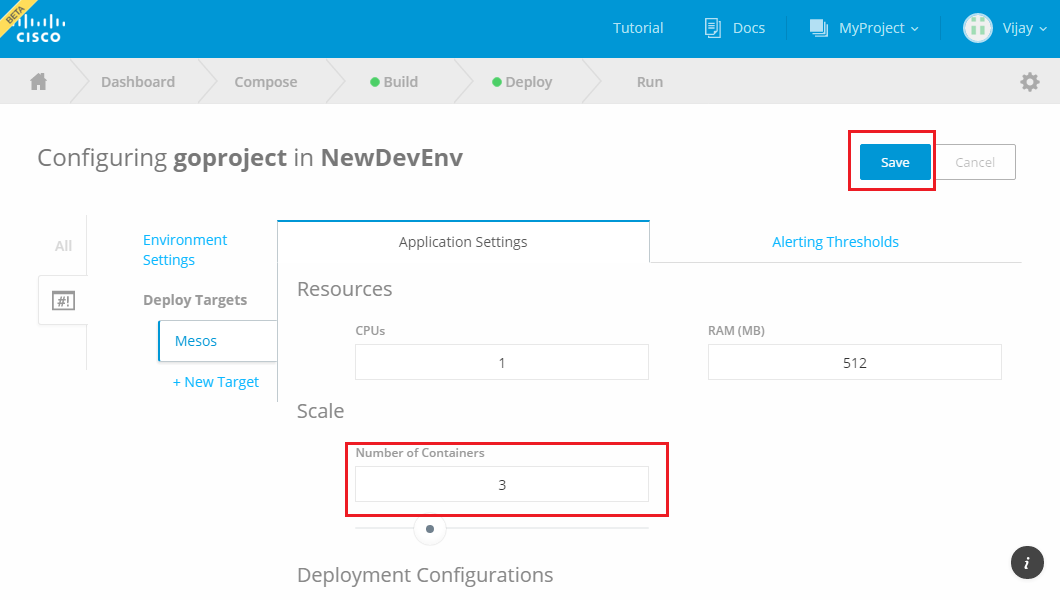
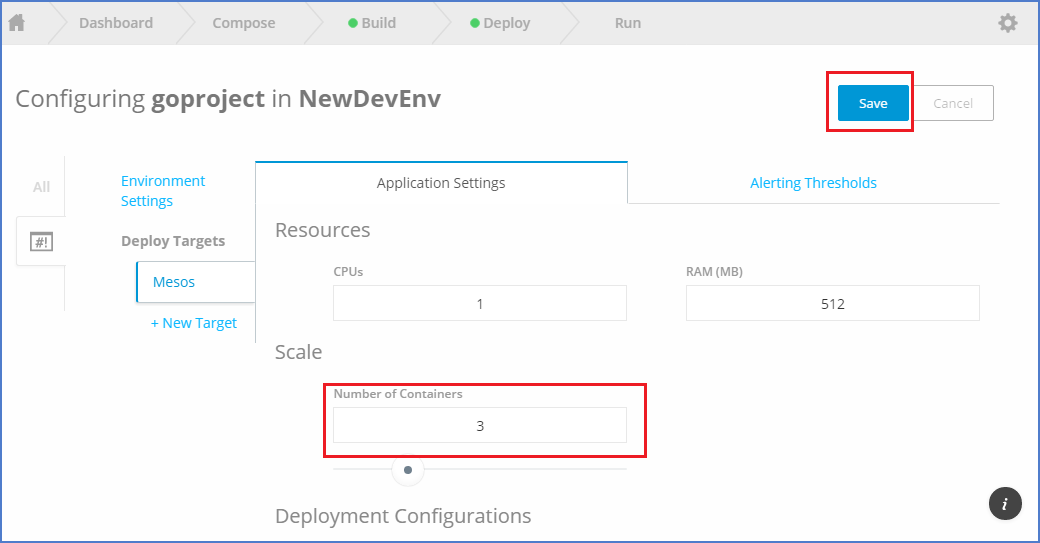
Add borders to graphics

diff --git a/labs/shipped-cicd/3.md b/labs/shipped-cicd/3.md
@@ -1,24 +1,48 @@
-# Shipped - CICD
 
-## Environment Configurations
+## Configure Environment Settings
 
-1. Click on **Deploy** tab. and click on Settings
+1. Click the **Deploy** tab.  
 
-![](posts/files/shipped-cicd/assets/13.PNG)
+    ![](posts/files/shipped-cicd/assets/Environment-settings.png)
 
-2. Change containers to 3 and click on save button.
+4.  Select your environment, then click **Settings**.
 
-![](posts/files/shipped-cicd/assets/14.PNG)
+1. Click **Environment Settings** to display the settings. 
 
-3. Once done with Enviroment specific setting, We need to redeploy build.
+    ![](posts/files/shipped-cicd/assets/Environment-settings-CI.png)
 
-Deploying a build to an environment means that your project will be deployed to the environment you select. It replaces any previous deployment of the build to that environment. 
+## Enable Auto Deploy
 
-![](posts/files/shipped-cicd/assets/12.PNG)
+1. Click the **Auto Deploy**, then click **Back to Environments**. 
+ 
+1. Click **Deploy Build**. 
 
-4 When the project deployment is completed, we can see URL in green color link like "CISCO EU" for    the build, and progress bar also disappears.
 
-![](posts/files/shipped-cicd/assets/16.PNG)
+## Add a New Deploy Target
 
-<br/>
-Wow, You have successfully built and deployed your project with custom environment settings.
+
+1. Click **Settings** on the environment page. 
+
+    ![](posts/files/shipped-cicd/assets/Environment-target.png)
+
+1. Click **+ New Target**, then click **+ Add New Target**. 
+
+    ![](posts/files/shipped-cicd/assets/Environment-target-marathon.png)
+
+1. Click **Add Deploy Target**, and select **Marathon**. 
+
+    ![](posts/files/shipped-cicd/assets/Deployed-target.png)
+
+1. Enter information in the following fields:
+ - **Name** - The name of your target. 
+ - **URL** - The URL of your target and must be in this format, for example, https://mycorp-control-01.mycorp.shipped.cisco.com:8080
+ - **URL Template** - The template must be in this format, for example,    
+    http://%smycorp.shipped.cisco.com
+
+        ![](posts/files/shipped-cicd/assets/Environment-add-deploy-target.png)
+
+1. Optionally, click the check box next to **Enable HTTP Authentication**, then enter the user name and password. 
+
+1. Click **Save**.
+
+

diff --git a/labs/shipped-cicd/1.md b/labs/shipped-cicd/1.md
@@ -9,37 +9,40 @@ Continuous Deployment (CD) is a practice that closely related to CI. CD deploys 
 ## Configure Your Project
 
 
-1. Log in to <a href="https://ciscoshipped.io">https://ciscoshipped.io</a>.    
+1. Log in to <a href="https://ciscoshipped.io">Shipped UI</a>.    
 
-2.  Select a project from **Your Projects** drop-down list. Or create new project.
+2.  Select a project from **Your Projects** drop-down list, or create a new one.
  
-![](posts/files/shipped-cicd/assets/project-select.png)
+    ![](posts/files/shipped-cicd/assets/project-select.png)
 
 
-3. Add a new Service (Golang for Eg.), you can select from existing buildpacks.
+3. Add a new service (Golang for example).
 
-![](posts/files/shipped-cicd/assets/2.PNG)
+    ![](posts/files/shipped-cicd/assets/2.PNG)
 
-4. Provide a Service name for this newly created service.
+4. Enter a name for this service.
 
-![](posts/files/shipped-cicd/assets/3.PNG)
+    ![](posts/files/shipped-cicd/assets/3.PNG)
 
-5. Click Save Project, this will Create a new git repo with the same service name you have mentioned above, and also make neccesory changes to this repo to be integrated with shipped.
+5. Click **Save Project**.  
+    A new git repo is created with the service name you created.
 
-![](posts/files/shipped-cicd/assets/4.PNG)
+    ![](posts/files/shipped-cicd/assets/4.PNG)
 
-6. Verify First build- Once you save project, Shipped makes some changes to your repo to be integrated with shipped.this process also trigger some builds for such commits.
+6. Verify the build.   
+    Shipped makes some changes to your repo to be integrated with Shipped. This process also triggers some builds for such commits.
 
-![](posts/files/shipped-cicd/assets/5.PNG)
-
+    ![](posts/files/shipped-cicd/assets/5.PNG)
   
-7.  Click the **Deploy** tab and create new environment.
+7.  Click the **Deploy** tab then click **New Environment**.
 
-![](posts/files/shipped-cicd/assets/Environment-add.png)    
+    ![](posts/files/shipped-cicd/assets/Environment-add.png)    
 
-8.  Deploy your application.
+8.  Enter a name for the environment, click **Save**. 
+
+8.  Click **Deploy Build**.
     
-![](posts/files/shipped-cicd/assets/12.PNG)    
+    ![](posts/files/shipped-cicd/assets/12.PNG)    
 
 
 

diff --git a/labs/shipped-cicd/2.md b/labs/shipped-cicd/2.md
@@ -1,24 +1,25 @@
-# Shipped - CICD
 
-## Making new changes to Git repo and Redeploy
+## Make Changes to Git Repo and Redeploy
 
-1 Verify Git Project- Now you should be able to see fully integrated git repo with all neccesory changes done by shipped.
+1. Verify your project, which is fully integrated with all additional files.
 
-![](posts/files/shipped-cicd/assets/6.PNG)
+    ![](posts/files/shipped-cicd/assets/6.PNG)
 
-2 Make Some Changes in your git Project to see if shipped triggers a new build for your commit.
 
-![](posts/files/shipped-cicd/assets/7.PNG)
+1. Make some changes in your git project to verify that Shipped triggers a new build.
 
-3 Commit changes- once you commit your change associated webhook will tell shipped to trigger a build for your commits. Each Commit will trigger a seperate build.
+    ![](posts/files/shipped-cicd/assets/7.PNG)
 
-![](posts/files/shipped-cicd/assets/8.PNG)
+1. Commit changes.  
+    When you commit changes, an associated webhook tells Shipped to trigger a build. Each commit triggers a seperate build.
 
-4 Verify Build progress for latest commit
+     ![](posts/files/shipped-cicd/assets/8.PNG)
 
-![](posts/files/shipped-cicd/assets/9.PNG)
+1. Verify the build progress for the latest commit.
 
-5 Deploy latest build.
+    ![](posts/files/shipped-cicd/assets/9.PNG)
 
-![](posts/files/shipped-cicd/assets/10.PNG)
+1. Deploy latest build.
+
+    ![](posts/files/shipped-cicd/assets/10.PNG)
 
